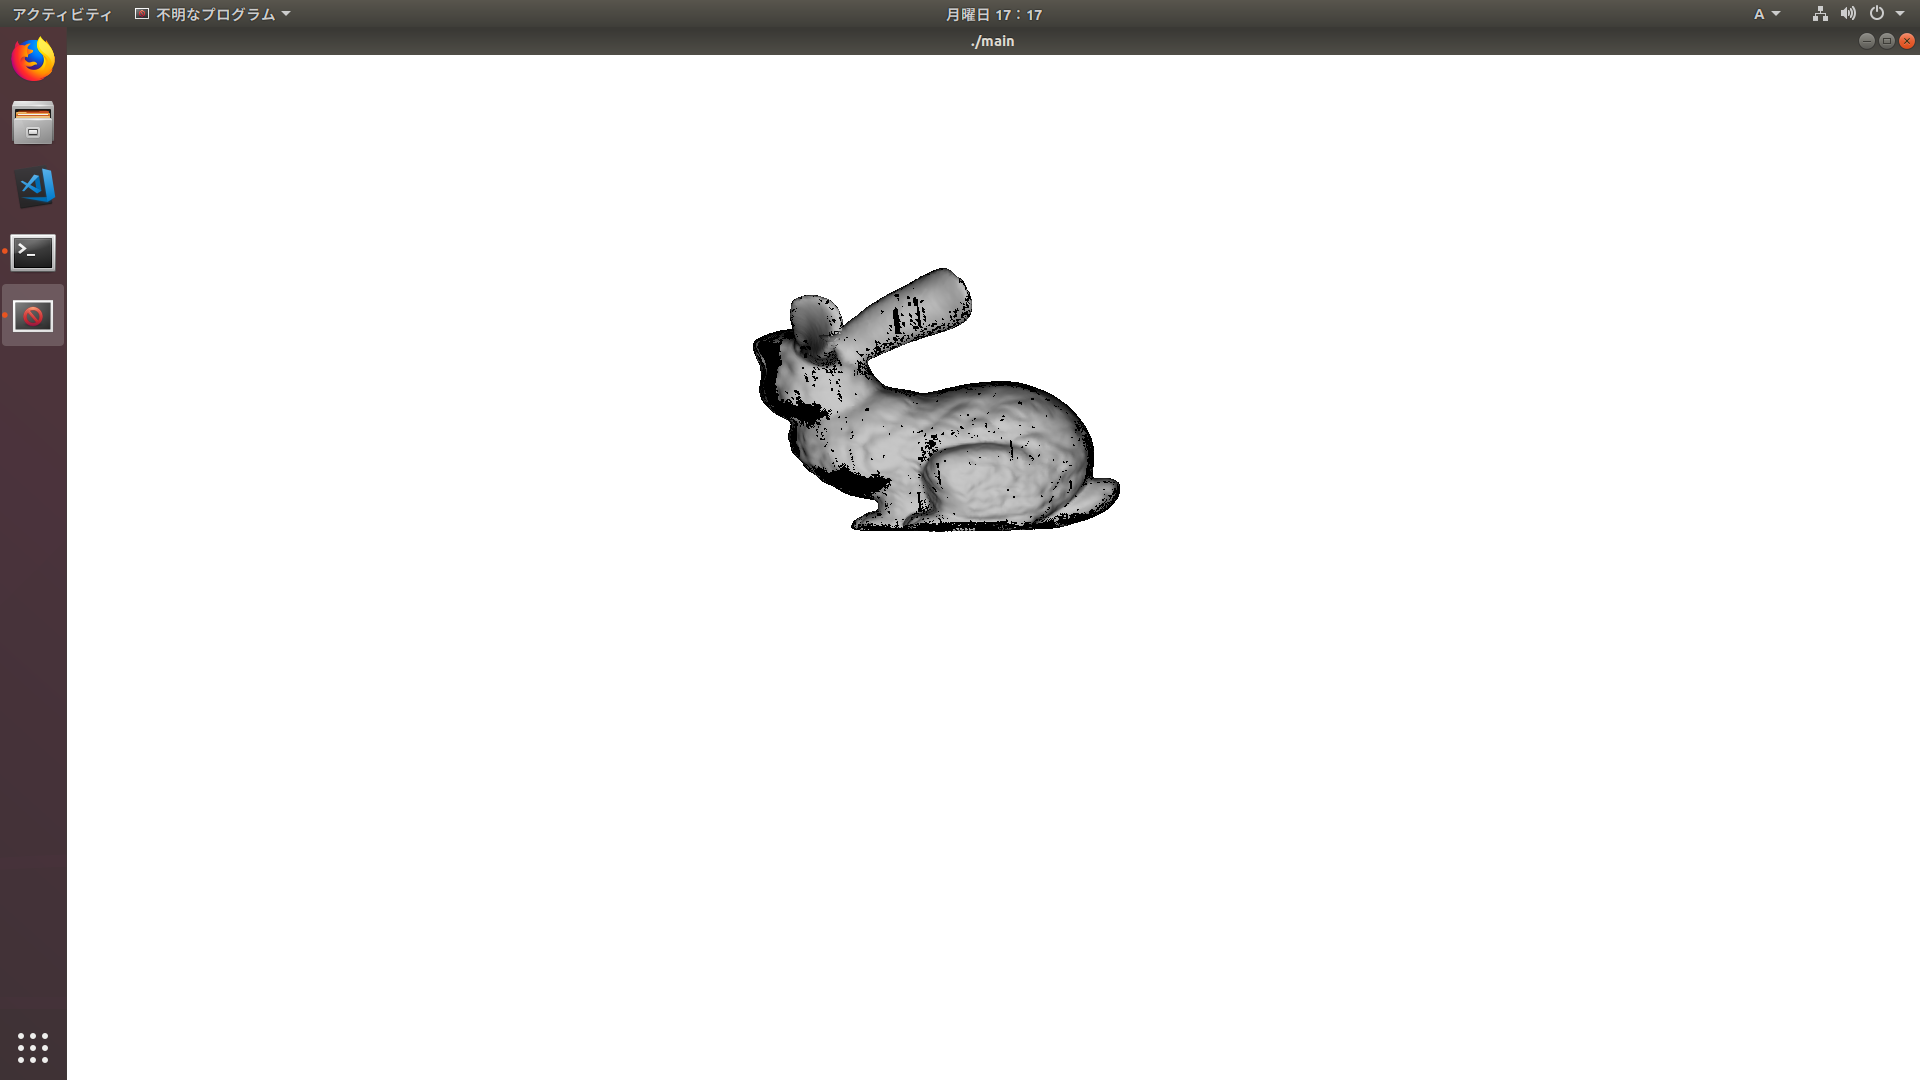
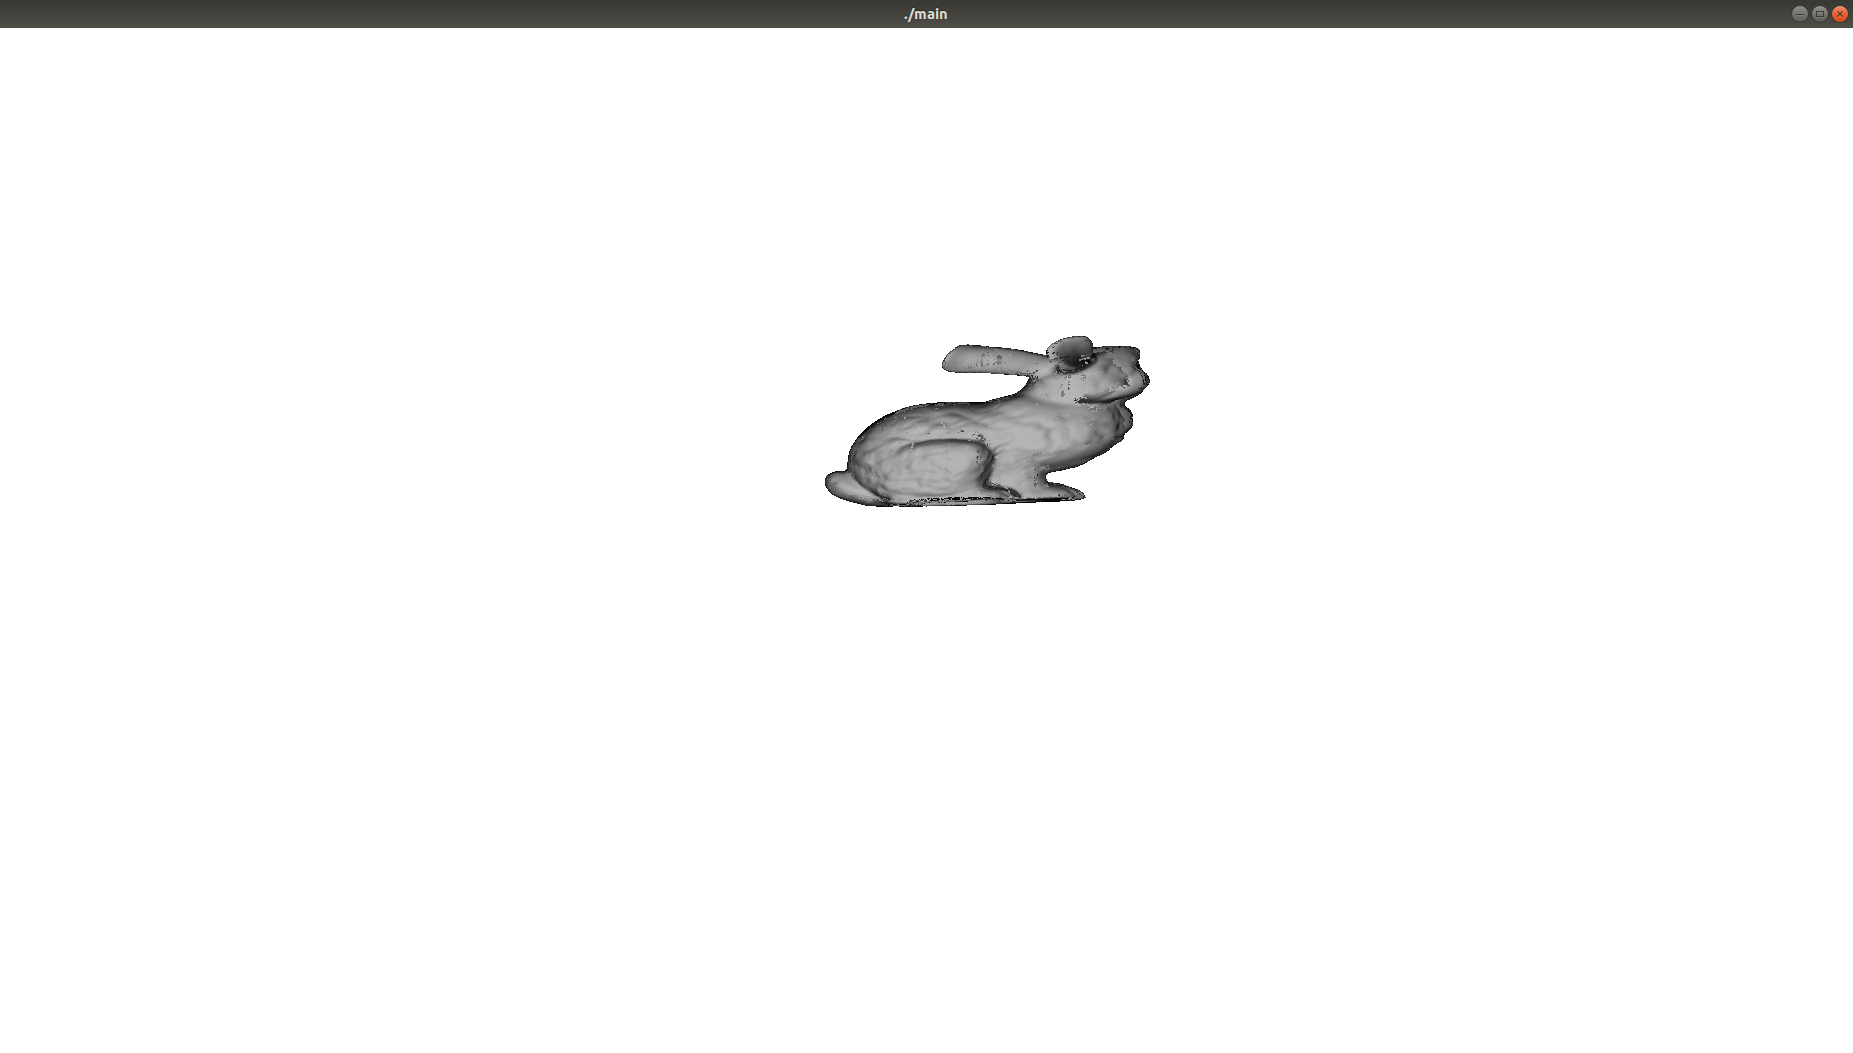
画像のアップデート

Changed region(s): [[0.0, 0.0, 1.0, 1.0], [0.3691, 0.2431, 0.6152, 0.5166]]

diff --git a/README.md b/README.md
@@ -4,7 +4,7 @@
 
 ## 現状
 スタンフォードバニーの読み込みには成功。一応表示できている。
-ただし、半分くらいのポリゴンが黒く表示されている。
+ただし、ゴミが表示されている。原因を調査中。
 
 ![result](result.png)
 
